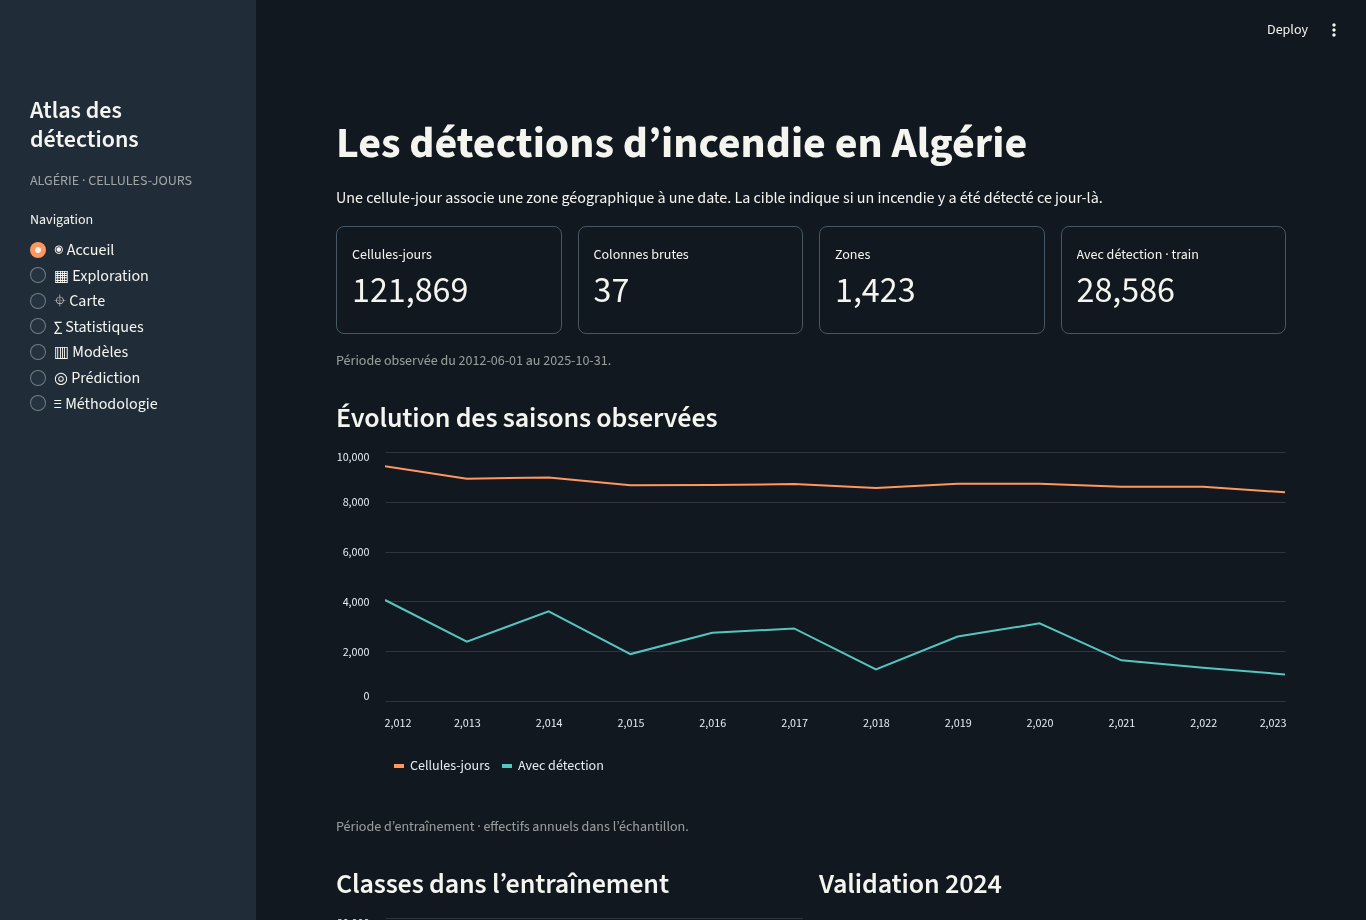
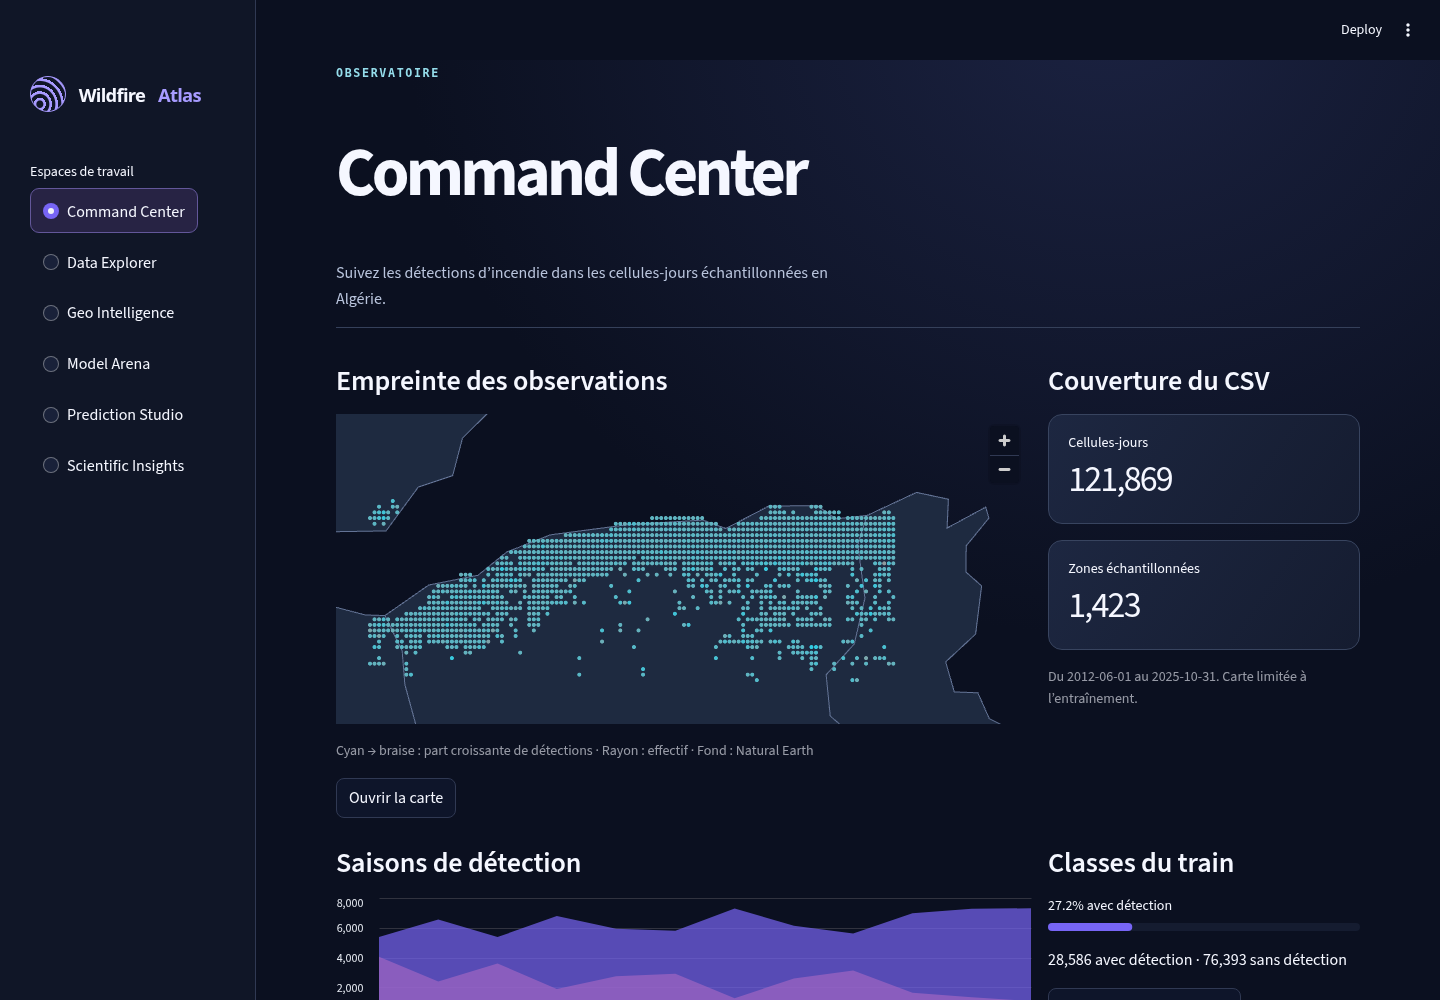
docs(ui): publish Wildfire Atlas guide and responsive screenshots

diff --git a/docs/INTERFACE.md b/docs/INTERFACE.md
@@ -1,37 +1,32 @@
-# Atlas des détections en Algérie
+# Wildfire Atlas
 
-Depuis la racine, avec Python 3.12 :
+Avec Python 3.12, depuis la racine du dépôt sous Windows PowerShell :
 
-    python -m pip install -r requirements-dev.txt
-    python -m streamlit run src/app.py
+```powershell
+py -3.12 -m venv .venv
+.\.venv\Scripts\python.exe -m pip install -r requirements-dev.txt
+.\.venv\Scripts\python.exe -m streamlit run src/app.py
+```
 
-Sur Windows, dans le venv du projet, remplacer python par .\.venv\Scripts\python.exe.
-Le navigateur affiche l’adresse locale indiquée dans le terminal.
+Ouvrir l’URL locale affichée dans le terminal. Depuis un environnement Python activé, la commande de lancement est `python -m streamlit run src/app.py`.
 
-| Page | Utilisation |
+| Espace | Travail proposé |
 |---|---|
-| Accueil | Couverture du CSV, effectifs d’entraînement, résultats sur 2024 et raccourcis. |
-| Exploration | Ajuster la plage météo, les années, classes, mois et zones ; réinitialiser dans la barre latérale. Ouvrir l’aperçu pour les types et l’évolution annuelle. |
-| Statistiques | Comparer température et humidité avec ou sans appariement mensuel. Les courbes montrent les écarts annuels. |
-| Modèles | Choisir une métrique, puis consulter la confusion et les réglages d’un modèle. |
-| Prédiction | Modifier les mesures, puis cliquer sur Prédire. Le pipeline sauvegardé assure le prétraitement et le classement. |
-| Méthodologie | Source, nettoyage, protocole temporel, contributions et limites. |
+| Command Center | Situer les observations sur la carte, consulter la couverture du CSV et suivre les deux classes par saison d’entraînement. |
+| Data Explorer | Filtrer années, mois, zones, classes et plage météo. Examiner les distributions, les valeurs manquantes et les corrélations, puis exporter la sélection. |
+| Geo Intelligence | Ajuster la période, survoler une cellule, zoomer et consulter ses coordonnées et ses effectifs dans le tableau. |
+| Model Arena | Classer les modèles par métrique sur 2024 et examiner confusion, courbes et réglages. |
+| Prediction Studio | Sélectionner le pipeline, renseigner les groupes de mesures et lire la classe et la probabilité après soumission. |
+| Scientific Insights | Consulter le protocole, les contrôles du CSV et la comparaison des températures et humidités avec ou sans appariement mensuel. |
 
-Conserver Dataset/dataset.csv, le protocole dans results/, les résultats d'audit dans
-results/audit_siad03 et les lots results/siad03_nb/run_01 et results/siad03_extensions/benchmark.
-Les deux modèles personnels utilisent le lot NB à 14 réglages. Les autres scores sont ceux du benchmark.
-Les scores de l'arbre historique sont indicatifs (version scikit-learn différente).
-Les tableaux utilisent la validation 2024 ; 2025 reste réservé. Les tuiles géographiques et
-diagnostics avancés restent accessibles dans le dashboard scientifique autonome.
+## Données et limites
 
-Captures de l’accueil : [ordinateur](interface-bureau.png) · [mobile](interface-mobile.png).
+Les cartes agrègent les coordonnées observées par cellule. Le rayon représente le nombre de cellules-jours, la couleur la part des observations avec détection. Les contours de contexte proviennent du jeu de données public Natural Earth [Admin 0, 1:110m](https://github.com/nvkelso/natural-earth-vector/blob/master/geojson/ne_110m_admin_0_countries.geojson). Ils sont fournis localement et leur résolution limite la précision du littoral.
 
-La page **Carte** regroupe les cellules-jours du train par zone après sélection des années et des mois.
-Le survol affiche les effectifs avec et sans détection. Rayon et couleur décrivent l’échantillon.
-Le fond cartographique nécessite une connexion réseau ; les effectifs restent consultables dans le tableau.
+Conserver le CSV dans Dataset/, le protocole et les lots versionnés dans results/. La comparaison utilise la validation 2024 et les courbes issues des prédictions sauvegardées. L’arbre historique dispose de résultats de validation. Sa version de scikit-learn limite son usage interactif. Les quatre pipelines du studio sont Zero-R, GaussianNB, LogisticRegression et HistGradientBoosting. Les observations de 2025 sont réservées.
 
-Dans **Exploration**, préparer le téléchargement CSV exporte la sélection active. Survoler la matrice de Spearman affiche le coefficient de chaque paire.
-Dans **Modèles**, le classement utilise la métrique choisie. ROC et précision-rappel proviennent des scores sauvegardés sur 2024 ; la précision moyenne (AP) résume la seconde courbe.
-Le formulaire regroupe les entrées en météo, historique, indices de feu et végétation/saison.
+## Organisation
 
-[Capture tablette](interface-tablette.png)
+L’entrée Streamlit est src/app.py. Le module src/ui/shell.py porte la navigation, atlas.css les styles, geography.py la carte, pages.py la synthèse et le protocole, model_pages.py les espaces modèles et prédiction. Les données et les artefacts sont chargés par services.py. Les distributions et corrélations sont partagées avec la démo autonome dans src/eda_view.py.
+
+[Ordinateur](interface-bureau.png) · [Tablette](interface-tablette.png) · [Mobile](interface-mobile.png)

diff --git a/README.md b/README.md
@@ -2,7 +2,7 @@
 
 Projet universitaire de fouille de données : étudier les liens entre météo, végétation et détections d'incendie en Algérie.
 
-**État au 14 novembre 2026 : développement partiel.** Trois classifieurs sur six et une démo EDA sont présents. K-NN, Random Forest, SVM, l'application principale, la prédiction interactive et le rapport final restent à intégrer. Voir [l'audit](docs/AUDIT_SIAD03.md).
+**Wildfire Atlas** réunit six espaces Streamlit pour explorer les observations, comparer cinq classifieurs documentés et interroger quatre pipelines compatibles. K-NN, Random Forest et SVM restent à intégrer au benchmark. [Lancement et captures de l’interface](docs/INTERFACE.md)
 
 ## 1. Objectifs et données
 
